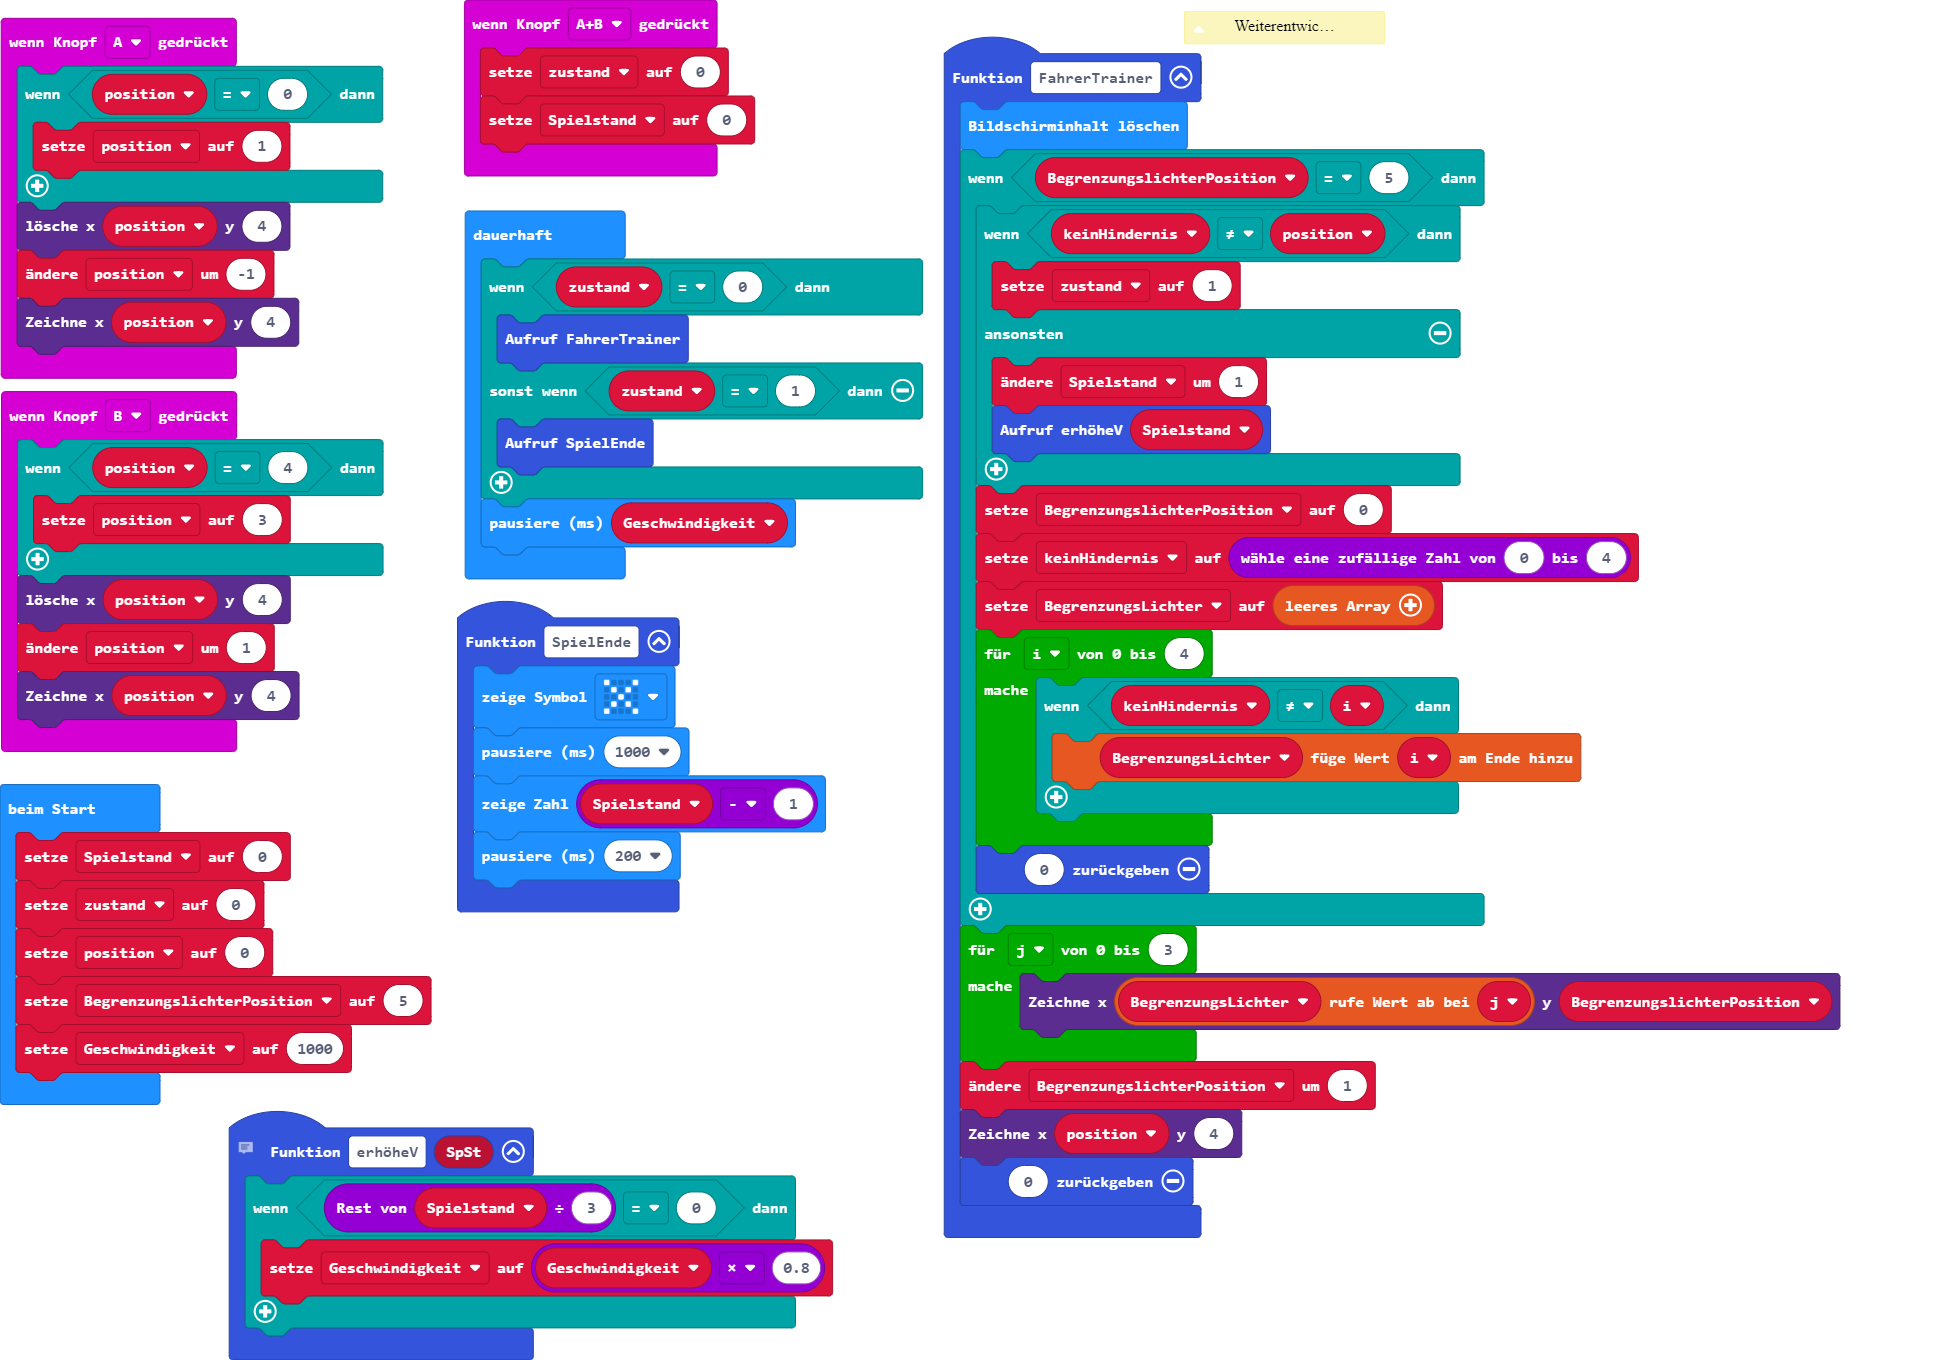
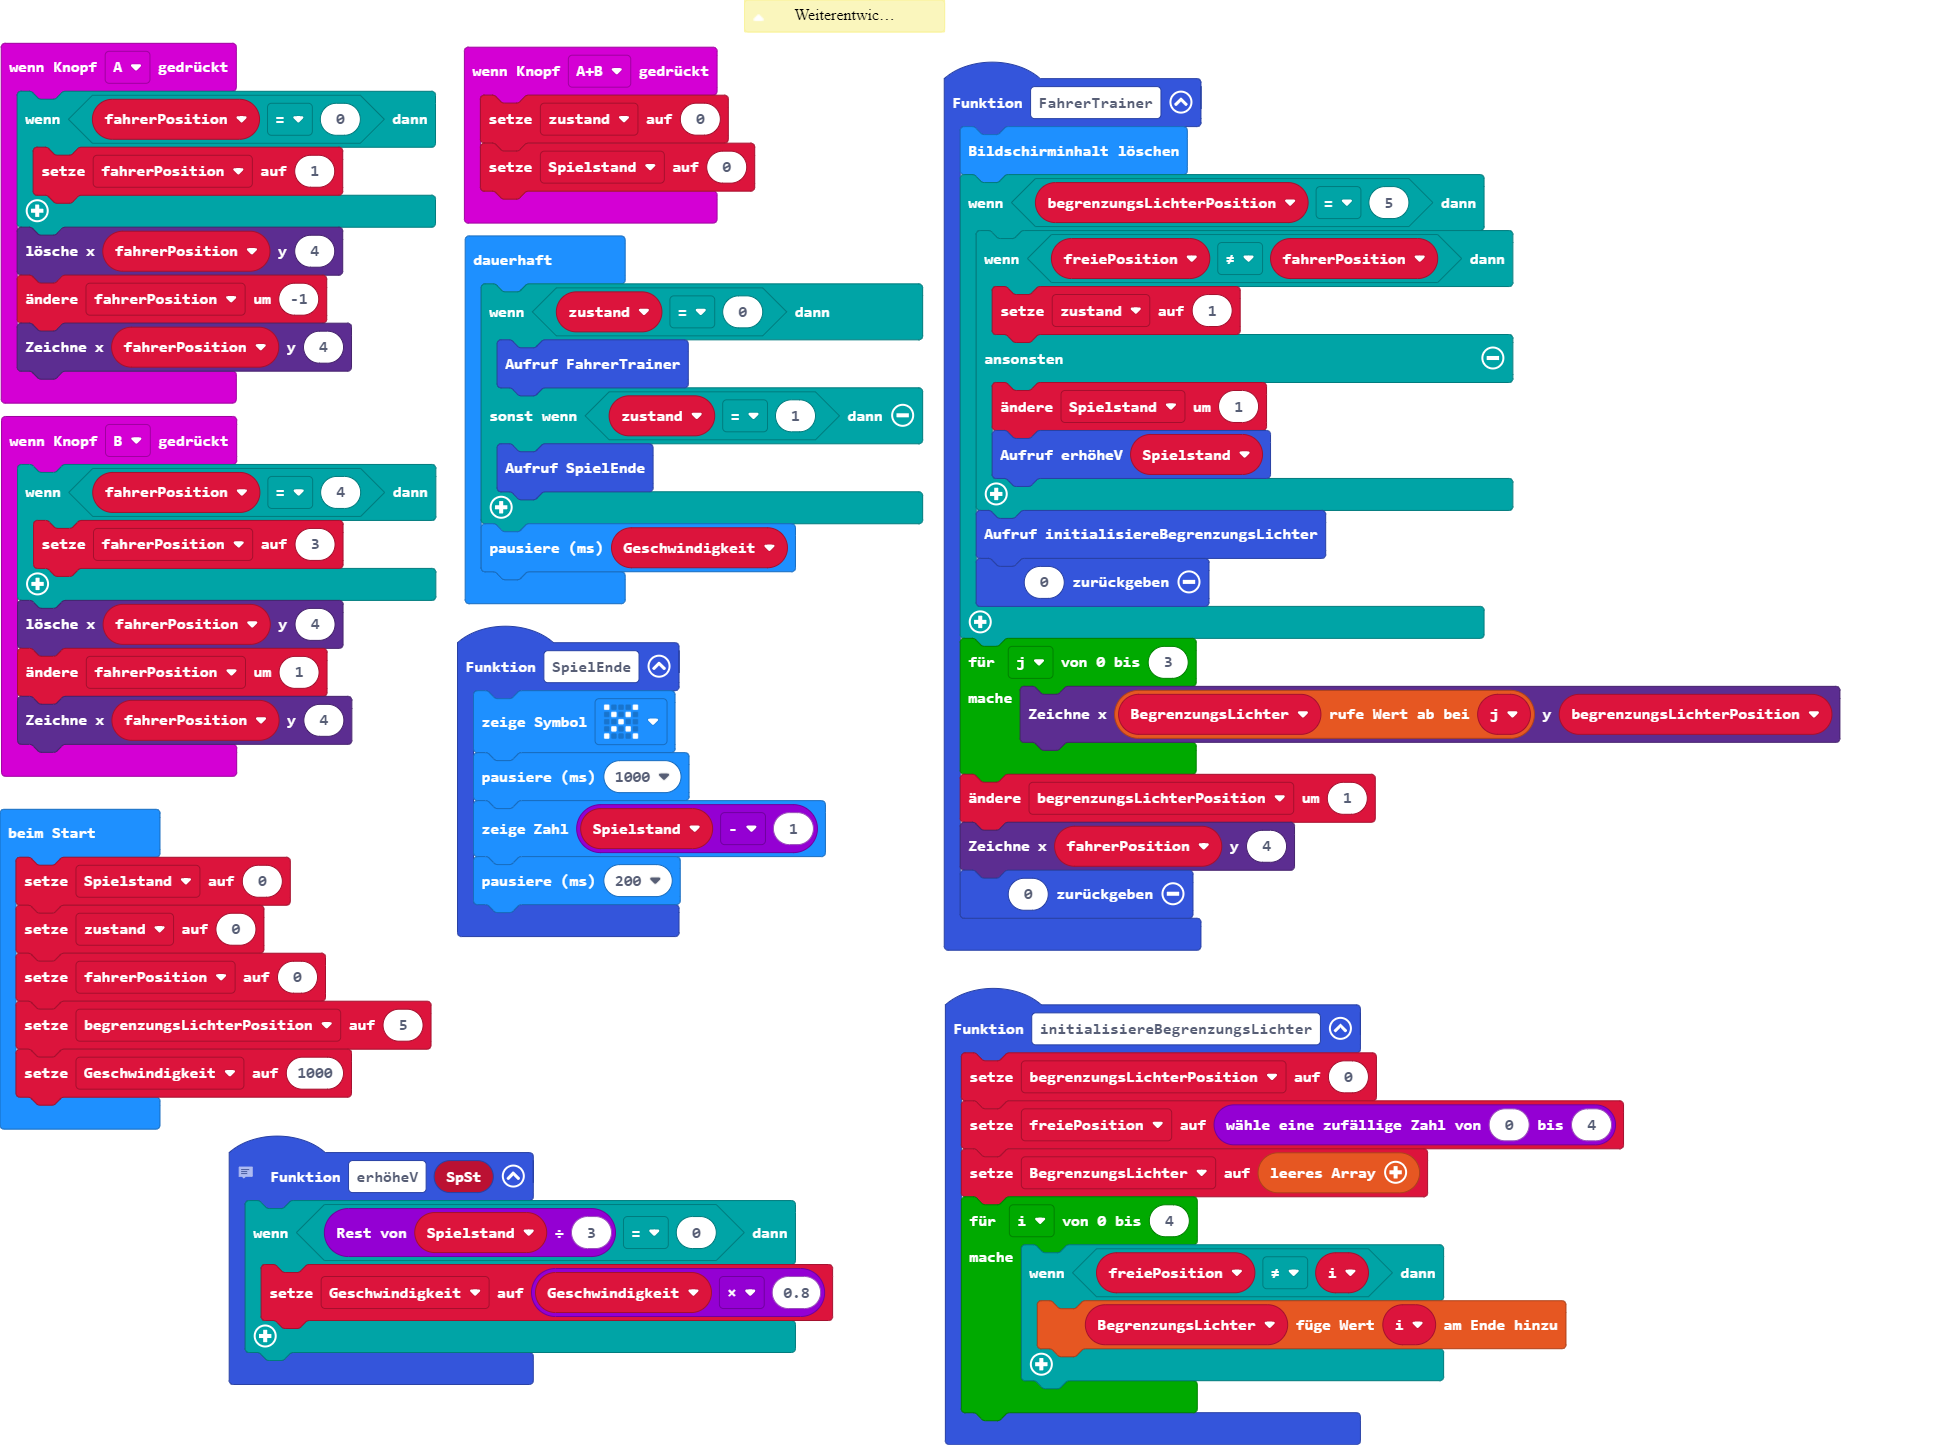
Auslagerung einer Funktion

diff --git a/main.ts b/main.ts
@@ -1,30 +1,20 @@
-/**
- * Weiterentwicklung von DriverGame
- */
 function FahrerTrainer () {
     basic.clearScreen()
-    if (BegrenzungslichterPosition == 5) {
-        if (keinHindernis != position) {
+    if (begrenzungsLichterPosition == 5) {
+        if (freiePosition != fahrerPosition) {
             zustand = 1
         } else {
             Spielstand += 1
             erhöheV(Spielstand)
         }
-        BegrenzungslichterPosition = 0
-        keinHindernis = randint(0, 4)
-        BegrenzungsLichter = []
-        for (let i = 0; i <= 4; i++) {
-            if (keinHindernis != i) {
-                BegrenzungsLichter.push(i)
-            }
-        }
+        initialisiereBegrenzungsLichter()
         return 0
     }
     for (let j = 0; j <= 3; j++) {
-        led.plot(BegrenzungsLichter[j], BegrenzungslichterPosition)
+        led.plot(BegrenzungsLichter[j], begrenzungsLichterPosition)
     }
-    BegrenzungslichterPosition += 1
-    led.plot(position, 4)
+    begrenzungsLichterPosition += 1
+    led.plot(fahrerPosition, 4)
     return 0
 }
 function SpielEnde () {
@@ -34,13 +24,16 @@ function SpielEnde () {
     basic.pause(200)
 }
 input.onButtonPressed(Button.A, function () {
-    if (position == 0) {
-        position = 1
+    if (fahrerPosition == 0) {
+        fahrerPosition = 1
     }
-    led.unplot(position, 4)
-    position += -1
-    led.plot(position, 4)
+    led.unplot(fahrerPosition, 4)
+    fahrerPosition += -1
+    led.plot(fahrerPosition, 4)
 })
+/**
+ * Weiterentwicklung von DriverGame
+ */
 input.onButtonPressed(Button.AB, function () {
     zustand = 0
     Spielstand = 0
@@ -52,24 +45,34 @@ function erhöheV (SpSt: number) {
     }
 }
 input.onButtonPressed(Button.B, function () {
-    if (position == 4) {
-        position = 3
+    if (fahrerPosition == 4) {
+        fahrerPosition = 3
     }
-    led.unplot(position, 4)
-    position += 1
-    led.plot(position, 4)
+    led.unplot(fahrerPosition, 4)
+    fahrerPosition += 1
+    led.plot(fahrerPosition, 4)
 })
+function initialisiereBegrenzungsLichter () {
+    begrenzungsLichterPosition = 0
+    freiePosition = randint(0, 4)
+    BegrenzungsLichter = []
+    for (let i = 0; i <= 4; i++) {
+        if (freiePosition != i) {
+            BegrenzungsLichter.push(i)
+        }
+    }
+}
 let BegrenzungsLichter: number[] = []
-let keinHindernis = 0
+let freiePosition = 0
 let Geschwindigkeit = 0
-let BegrenzungslichterPosition = 0
-let position = 0
+let begrenzungsLichterPosition = 0
+let fahrerPosition = 0
 let zustand = 0
 let Spielstand = 0
 Spielstand = 0
 zustand = 0
-position = 0
-BegrenzungslichterPosition = 5
+fahrerPosition = 0
+begrenzungsLichterPosition = 5
 Geschwindigkeit = 1000
 basic.forever(function () {
     if (zustand == 0) {
